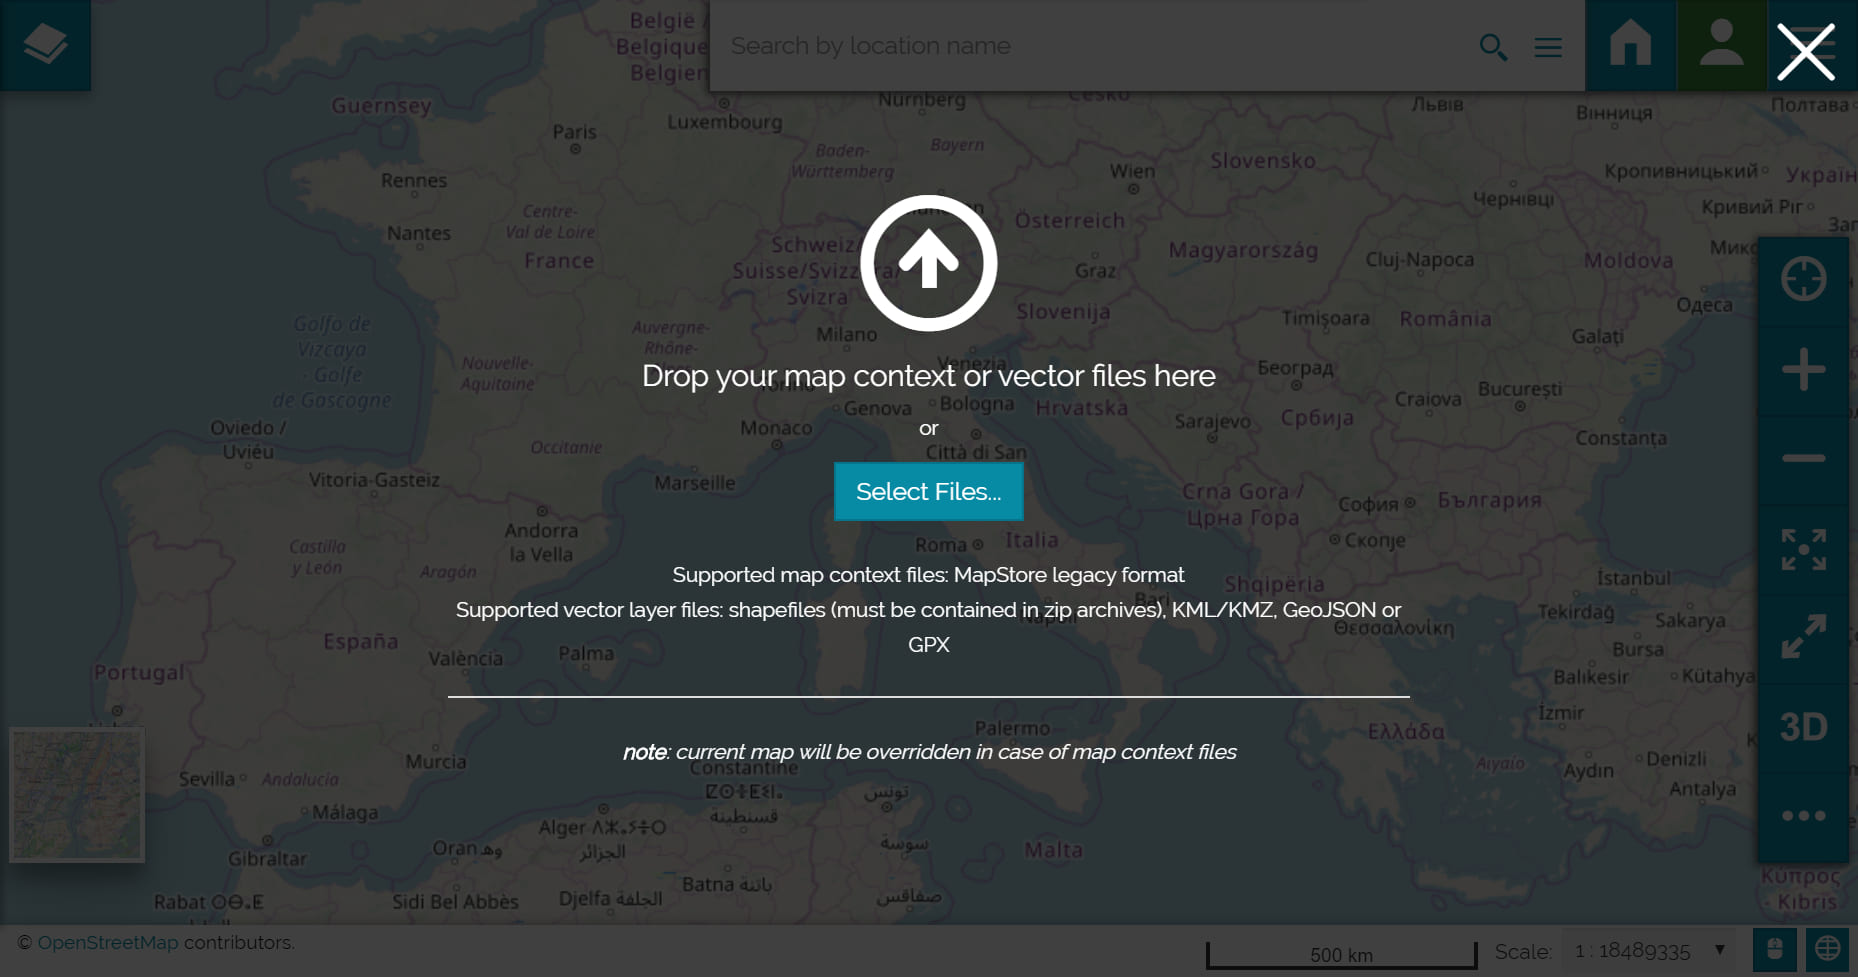
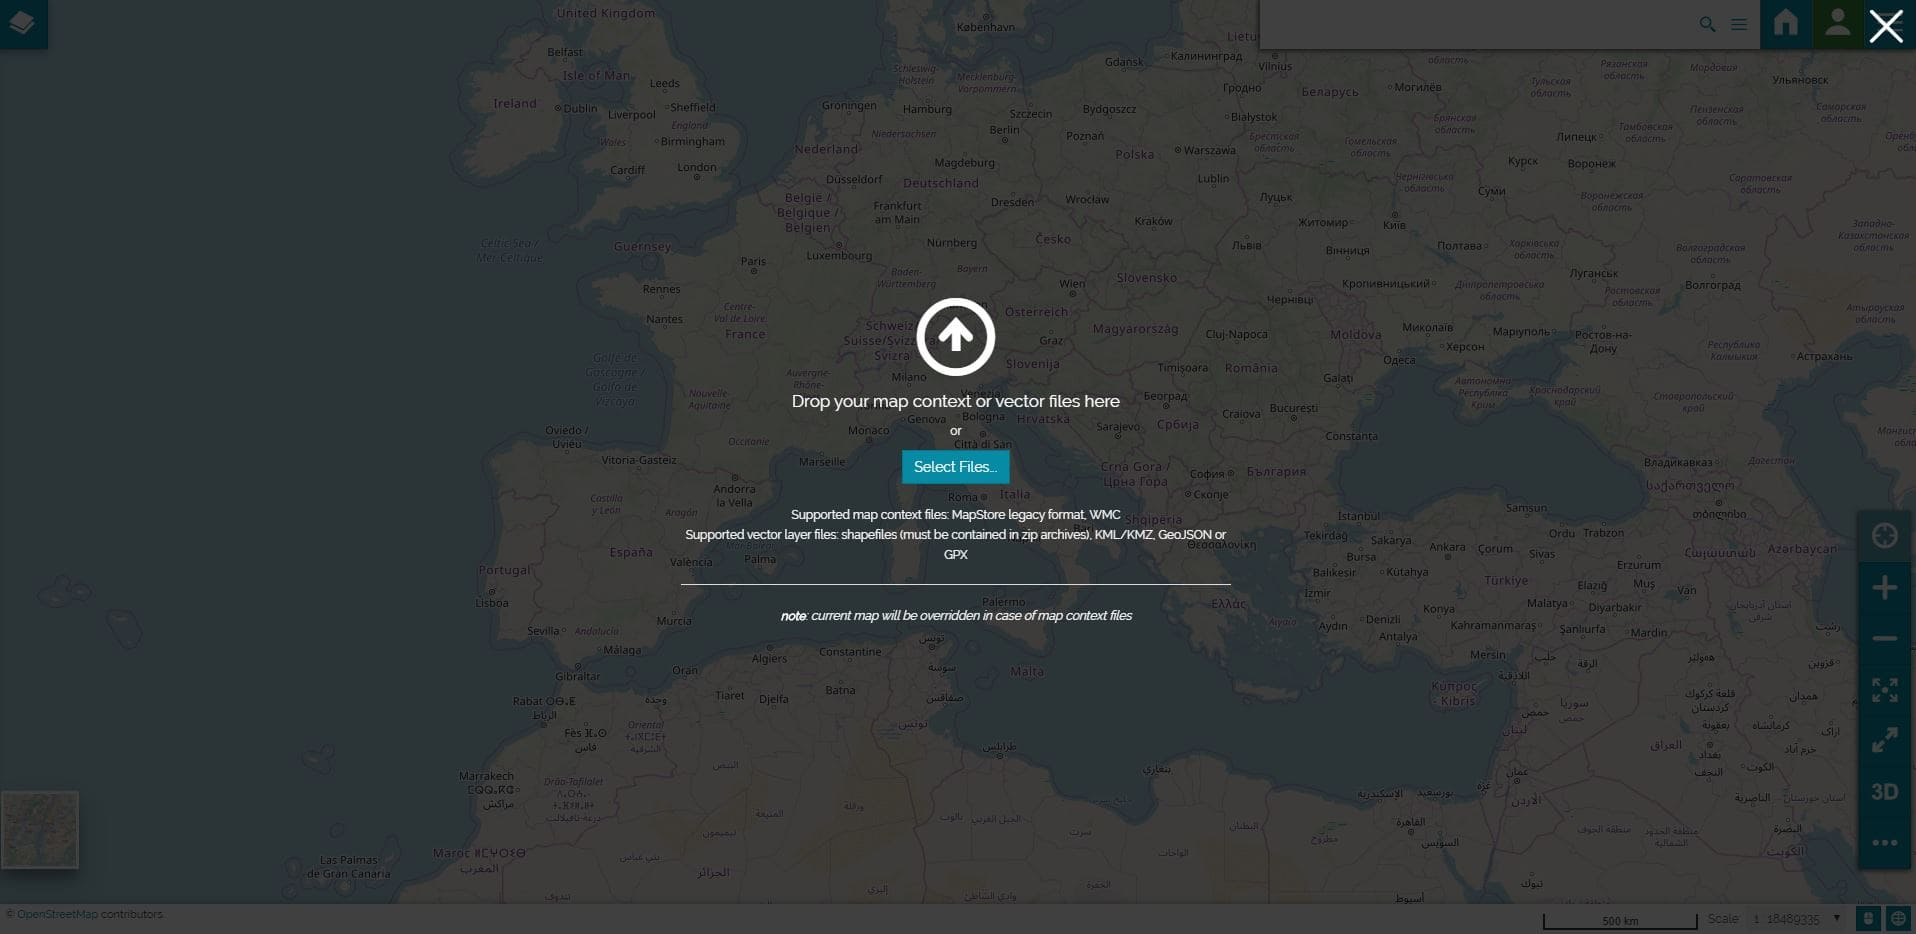
5059 import wmc file

diff --git a/docs/user-guide/import.md b/docs/user-guide/import.md
@@ -3,11 +3,11 @@
 
 In [MapStore](https://mapstore.geo-solutions.it/mapstore/#/) it is possible to add map context files or vector files to a map. This operation can be performed by clicking on the *Burger menu* button <img src="../img/button/burger.jpg" class="ms-docbutton"/> from the [Menu Bar](menu-bar.md) and by selecting the <img src="../img/button/import.jpg" class="ms-docbutton"/> option. Following these steps the import screen appears:
 
-<img src="../img/import/import-screen.jpg" class="ms-docimage"/>
+<img src="../img/import/import-screen.jpg" class="ms-docimage" style="max-width:700px;"/>
 
 Here the user, in order to import a file, can drag and drop it inside the import screen or select it from the folders of the local machine through the <img src="../img/button/select-files.jpg" class="ms-docbutton"/> button. Actually there's the possibility to import two different types of files:
 
-* *Map context files* (only MapStore legacy format is supported)
+* *Map context files* (supported formats: MapStore legacy format and WMC)
 
 * *Vector layer files* (supported formats: shapefiles, KML/KMZ, GeoJSON and GPX)
 
@@ -16,9 +16,19 @@ Here the user, in order to import a file, can drag and drop it inside the import
 
 ## Import map context files
 
-A map context is, for example, the file that an user download selecting the <img src="../img/button/export.jpg" class="ms-docbutton"/> option in [Burger Menu](menu-bar.md#burger-menu). This type of files, in `json` format contains all map context information, that means the settings about projections, coordinates, zoom, extent and layers present in the map (more information can be found in the [Maps Configuration](../developer-guide/maps-configuration.md) section of the [Developer Guide](https://mapstore.readthedocs.io/en/latest/developer-guide/). Adding a map configuration file the behavior is similar to the following:
+A map context is, for example, the file that an user download selecting the <img src="../img/button/export.jpg" class="ms-docbutton"/> option in [Burger Menu](menu-bar.md#burger-menu). There are two types of file that can be exported:
+
+* The <img src="../img/button/mapstore_format_button.jpg" class="ms-docbutton"/> file, is a `json` format contains all map context information, that means the settings about projections, coordinates, zoom, extent and layers present in the map (more information can be found in the [Maps Configuration](../developer-guide/maps-configuration.md) section of the [Developer Guide](https://mapstore.readthedocs.io/en/latest/developer-guide/).
+
+Adding a MapStore configuration file the behavior is similar to the following:
 
 <img src="../img/import/export-import.gif" class="ms-docimage"/>
+
+* The <img src="../img/button/wmc_format_button.jpg" class="ms-docbutton"/> (Web Map Context) file, is a `xml` format that contains only the layers present in the map and keeping their settings related to projections, coordinates, zoom and extension (more information can be found in the  [Maps Configuration](../developer-guide/maps-configuration.md#web-map-context) section of the [Developer Guide](https://mapstore.readthedocs.io/en/latest/developer-guide/).
+
+Adding a WMC configuration file the behavior is similar to the following:
+
+<img src="../img/import/wmc_import.gif" class="ms-docimage"/>
 
 !!! warning
     Adding a map context file the current map context will be overridden.
